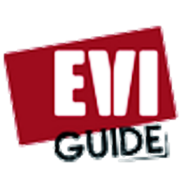
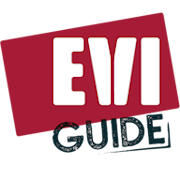
Høyoppløselige logofiler Fjerner rød stripe på toppen av siden Mindre fading av bakgrunn på sub-sider Oppdatert mail-adresse

diff --git a/src/components/Header.tsx b/src/components/Header.tsx
@@ -24,32 +24,33 @@ const Header: React.FC = () => {
     };
 
     return (
-        <>
-            <div className="top-bar">
-                <a className="email" href="mailto:info@eviski.com">{localizer(language, "epost")}</a>
-                <button className="burger" onClick={handleBurgerClick}>☰</button>
-                {/* Burger icon */}
+        <header className={`header ${isNavVisible ? 'nav-visible' : ''}`}>
+            <div className="logo-container">
+                <img className="logo" src="/eviguide_logo.png" alt="Logo"/>
             </div>
-            <header className={`header ${isNavVisible ? 'nav-visible' : ''}`}>
-                <div className="logo-container">
-                    <img className="logo" src="/eviguide_logo.png" alt="Logo"/>
-                </div>
-                <nav className="nav-container">
-                    <ul className="nav-items">
-                        <li><a className="anchor" onMouseEnter={handleMouseEnter} onMouseLeave={handleMouseLeave} href="/">{localizer(language, "hjem")}</a></li>
-                        <li><a className="anchor" onMouseEnter={handleMouseEnter} onMouseLeave={handleMouseLeave} href="/turer">{localizer(language, "turer")}</a></li>
-                        <li><a className="anchor" onMouseEnter={handleMouseEnter} onMouseLeave={handleMouseLeave} href="/kurs">{localizer(language, "kurs")}</a></li>
-                        <li><a className="anchor" onMouseEnter={handleMouseEnter} onMouseLeave={handleMouseLeave} href="/utstyr">{localizer(language, "utstyr")}</a></li>
-                        <li><a className="anchor" onMouseEnter={handleMouseEnter} onMouseLeave={handleMouseLeave} href="/info">{localizer(language, "info")}</a></li>
-                    </ul>
-                </nav>
-                <div className="language-toggle">
-                    <button className="language-button" onClick={() => setLanguage(Language.en)}>🇬🇧</button>
-                    <div className="language-separator">|</div>
-                    <button className="language-button" onClick={() => setLanguage(Language.no)}>🇳🇴</button>
-                </div>
-            </header>
-        </>
+            <div className="burger-container">
+                <button className="burger" onClick={handleBurgerClick}>☰</button>
+            </div>
+            <nav className="nav-container">
+                <ul className="nav-items">
+                    <li><a className="anchor" onMouseEnter={handleMouseEnter} onMouseLeave={handleMouseLeave}
+                           href="/">{localizer(language, "hjem")}</a></li>
+                    <li><a className="anchor" onMouseEnter={handleMouseEnter} onMouseLeave={handleMouseLeave}
+                           href="/turer">{localizer(language, "turer")}</a></li>
+                    <li><a className="anchor" onMouseEnter={handleMouseEnter} onMouseLeave={handleMouseLeave}
+                           href="/kurs">{localizer(language, "kurs")}</a></li>
+                    <li><a className="anchor" onMouseEnter={handleMouseEnter} onMouseLeave={handleMouseLeave}
+                           href="/utstyr">{localizer(language, "utstyr")}</a></li>
+                    <li><a className="anchor" onMouseEnter={handleMouseEnter} onMouseLeave={handleMouseLeave}
+                           href="/info">{localizer(language, "info")}</a></li>
+                </ul>
+            </nav>
+            <div className="language-toggle">
+                <button className="language-button" onClick={() => setLanguage(Language.en)}>🇬🇧</button>
+                <div className="language-separator">|</div>
+                <button className="language-button" onClick={() => setLanguage(Language.no)}>🇳🇴</button>
+            </div>
+        </header>
     );
 };
 

diff --git a/src/components/Header.css b/src/components/Header.css
@@ -28,10 +28,14 @@
     padding-right: 20px; /* Or adjust as needed */
 }
 
+.burger-container {
+    padding-right: 0;
+}
+
 .logo {
     /* Adjust the size as needed to match your design */
     height: auto;
-    width: auto; /* You can set a specific width if required */
+    max-width: 128px; /* You can set a specific width if required */
 }
 
 .nav-container {
@@ -96,8 +100,9 @@
     border: none;
     font-size: 1.5em;
     cursor: pointer;
-    color: #f8f9fa;
+    color: #000000;
     margin: 0;
+    box-shadow: #2b2f32;
 }
 
 @media (max-width: 768px) {

diff --git a/src/pages/Info.tsx b/src/pages/Info.tsx
@@ -25,7 +25,7 @@ const Info = () => {
                         </p>
                         <p>
                             {localizer(language, "kontaktinfoDescription2")}
-                            <a href="mailto:info@eviski.com"> info@eviski.com </a>
+                            <a href="mailto:info@eviguide.no"> info@eviguide.no </a>
                             {localizer(language, "kontaktinfoDescription3")}
                             <a href="tel:(+47)97544091"> (+47) 97 54 40 91 </a>
                         </p>

diff --git a/src/pages/Home.tsx b/src/pages/Home.tsx
@@ -16,7 +16,7 @@ const Home = () => {
                     <p>{localizer(language, "homeDescription")}</p>
                     <p>{localizer(language, "pålDescription")}</p>
                 </div>
-                <img src="/eviguide_logo.png" alt="Pål Røsrud"/>
+                <img className="logo" src="/eviguide_logo.png" alt="Evi Guide"/>
             </div>
         </Page>
     );

diff --git a/src/pages/Kurs.tsx b/src/pages/Kurs.tsx
@@ -52,7 +52,7 @@ const Kurs = () => {
             localizer(language, "antallPersoner") + " \n" +
             localizer(language, "dato") + " \n" +
             localizer(language, "område") + " \n");
-        return `mailto:info@eviski.com?subject=${subject}&body=${body}`;
+        return `mailto:info@eviguide.no?subject=${subject}&body=${body}`;
     };
 
 

diff --git a/src/pages/Home.css b/src/pages/Home.css
@@ -23,3 +23,9 @@
     object-fit: cover; /* Ensure the aspect ratio of the image is maintained */
     border-radius: 4px; /* Optional: Rounded corners for the image */
 }
+
+.logo {
+    /* Adjust the size as needed to match your design */
+    height: auto;
+    max-width: 128px; /* You can set a specific width if required */
+}

diff --git a/src/components/BackgroundImage.css b/src/components/BackgroundImage.css
@@ -20,5 +20,5 @@
 
 .background-image.other {
     background: url('/public/eviguide_picture.jpeg') center/cover no-repeat;
-    opacity: 0.5; /* Adjust the opacity to make it translucent */
+    opacity: 0.8; /* Adjust the opacity to make it translucent */
 }
